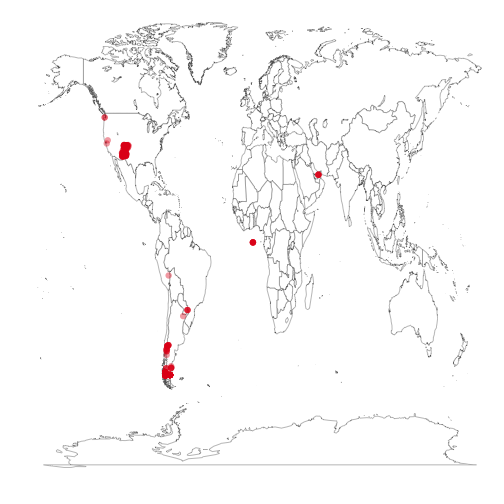
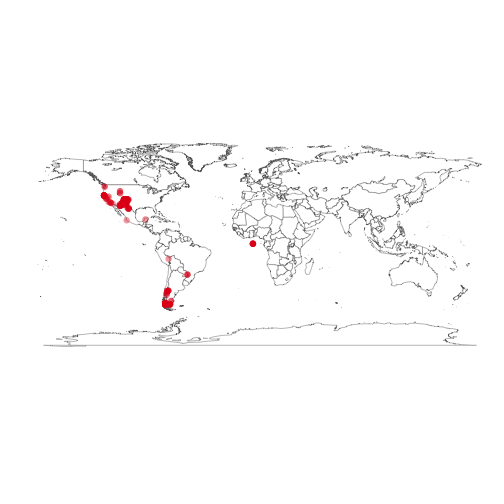
fixed bug in occ_get due to change in data from from gbif for verbatim data Added decimalLongitude and decimalLatitude to globals to ignore Fixed verbatim parser according to gbif changes Recompiled vignette closes #83

diff --git a/inst/vign/rgbif_vignette.md b/inst/vign/rgbif_vignette.md
@@ -45,7 +45,7 @@ occ_count(basisOfRecord = "OBSERVATION")
 ```
 
 ```
-[1] 286071783
+[1] 100241780
 ```
 
 
@@ -70,7 +70,7 @@ occ_count(taxonKey = 2435099, georeferenced = TRUE)
 occ_count(georeferenced = TRUE)
 ```
 
-[1] 376881077
+[1] 377074461
 
 
 ### Records from Denmark
@@ -81,19 +81,7 @@ occ_count(country = "DENMARK")
 ```
 
 ```
-[1] 8628822
-```
-
-
-### Records from France
-
-
-```r
-occ_count(hostCountry = "FRANCE")
-```
-
-```
-[1] 17272175
+[1] 8645654
 ```
 
 
@@ -117,7 +105,7 @@ occ_count(year = 2012)
 ```
 
 ```
-[1] 31483292
+[1] 32234053
 ```
 
 
@@ -125,11 +113,11 @@ occ_count(year = 2012)
 
 
 ```r
-occ_count(datasetKey = "8626bd3a-f762-11e1-a439-00145eb45e9a", basisOfRecord = "PRESERVED_SPECIMEN")
+occ_count(datasetKey = "e707e6da-e143-445d-b41d-529c4a777e8b", basisOfRecord = "OBSERVATION")
 ```
 
 ```
-[1] 550849
+[1] 2120907
 ```
 
 
@@ -270,12 +258,12 @@ head(name_lookup("Helianthus annuus", rank = "species")$data)
 
 
 ```r
-occ_get(key = 773433533, return = "data")
+occ_get(key = 766766824, return = "data")
 ```
 
 ```
-                  name       key longitude latitude
-1 Helianthus annuus L. 773433533      -117    32.85
+             name       key decimalLatitude decimalLongitude
+1 Corvus monedula 766766824           59.46            17.91
 ```
 
 
@@ -283,18 +271,18 @@ occ_get(key = 773433533, return = "data")
 
 
 ```r
-occ_get(key = 773433533, return = "hier")
+occ_get(key = 766766824, return = "hier")
 ```
 
 ```
-                  name     key    rank
-1              Plantae       6 kingdom
-2        Magnoliophyta      49  phylum
-3        Magnoliopsida     220   clazz
-4            Asterales     414   order
-5           Asteraceae    3065  family
-6           Helianthus 3119134   genus
-7 Helianthus annuus L. 3119195 species
+             name     key    rank
+1        Animalia       1 kingdom
+2        Chordata      44  phylum
+3            Aves     212   class
+4   Passeriformes     729   order
+5        Corvidae    5235  family
+6          Corvus 2482468   genus
+7 Corvus monedula 2482473 species
 ```
 
 
@@ -302,23 +290,23 @@ occ_get(key = 773433533, return = "hier")
 
 
 ```r
-occ_get(key = 773433533, return = "all")
+occ_get(key = 766766824, return = "all")
 ```
 
 ```
-$hierarch
-                  name     key    rank
-1              Plantae       6 kingdom
-2        Magnoliophyta      49  phylum
-3        Magnoliopsida     220   clazz
-4            Asterales     414   order
-5           Asteraceae    3065  family
-6           Helianthus 3119134   genus
-7 Helianthus annuus L. 3119195 species
+$hierarchy
+             name     key    rank
+1        Animalia       1 kingdom
+2        Chordata      44  phylum
+3            Aves     212   class
+4   Passeriformes     729   order
+5        Corvidae    5235  family
+6          Corvus 2482468   genus
+7 Corvus monedula 2482473 species
 
 $data
-                  name       key longitude latitude
-1 Helianthus annuus L. 773433533      -117    32.85
+             name       key decimalLatitude decimalLongitude
+1 Corvus monedula 766766824           59.46            17.91
 ```
 
 
@@ -326,16 +314,16 @@ $data
 
 
 ```r
-occ_get(key = c(773433533, 101010, 240713150, 855998194, 49819470), return = "data")
+occ_get(key = c(766766824, 101010, 240713150, 855998194, 49819470), return = "data")
 ```
 
 ```
-                                   name       key longitude latitude
-1                  Helianthus annuus L. 773433533   -117.00    32.85
-2  Platydoras costatus (Linnaeus, 1758)    101010    -70.07    -4.35
-3                              Pelosina 240713150    163.58   -77.57
-4       Sciurus vulgaris Linnaeus, 1758 855998194     12.04    58.41
-5 Phlogophora meticulosa Linnaeus, 1758  49819470     13.28    55.72
+                    name       key decimalLatitude decimalLongitude
+1        Corvus monedula 766766824           59.46            17.91
+2    Platydoras costatus    101010           -4.35           -70.07
+3                   <NA> 240713150          -77.57           163.58
+4       Sciurus vulgaris 855998194           58.41            12.04
+5 Phlogophora meticulosa  49819470           55.72            13.28
 ```
 
 
@@ -350,7 +338,7 @@ Make a map of **Puma concolor** occurrences
 
 ```r
 key <- name_backbone(name = "Puma concolor", kingdom = "plants")$speciesKey
-dat <- occ_search(taxonKey = key, return = "data", limit = 300, minimal = FALSE)
+dat <- occ_search(taxonKey = key, return = "data", limit = 300)
 gbifmap(input = dat)
 ```
 
